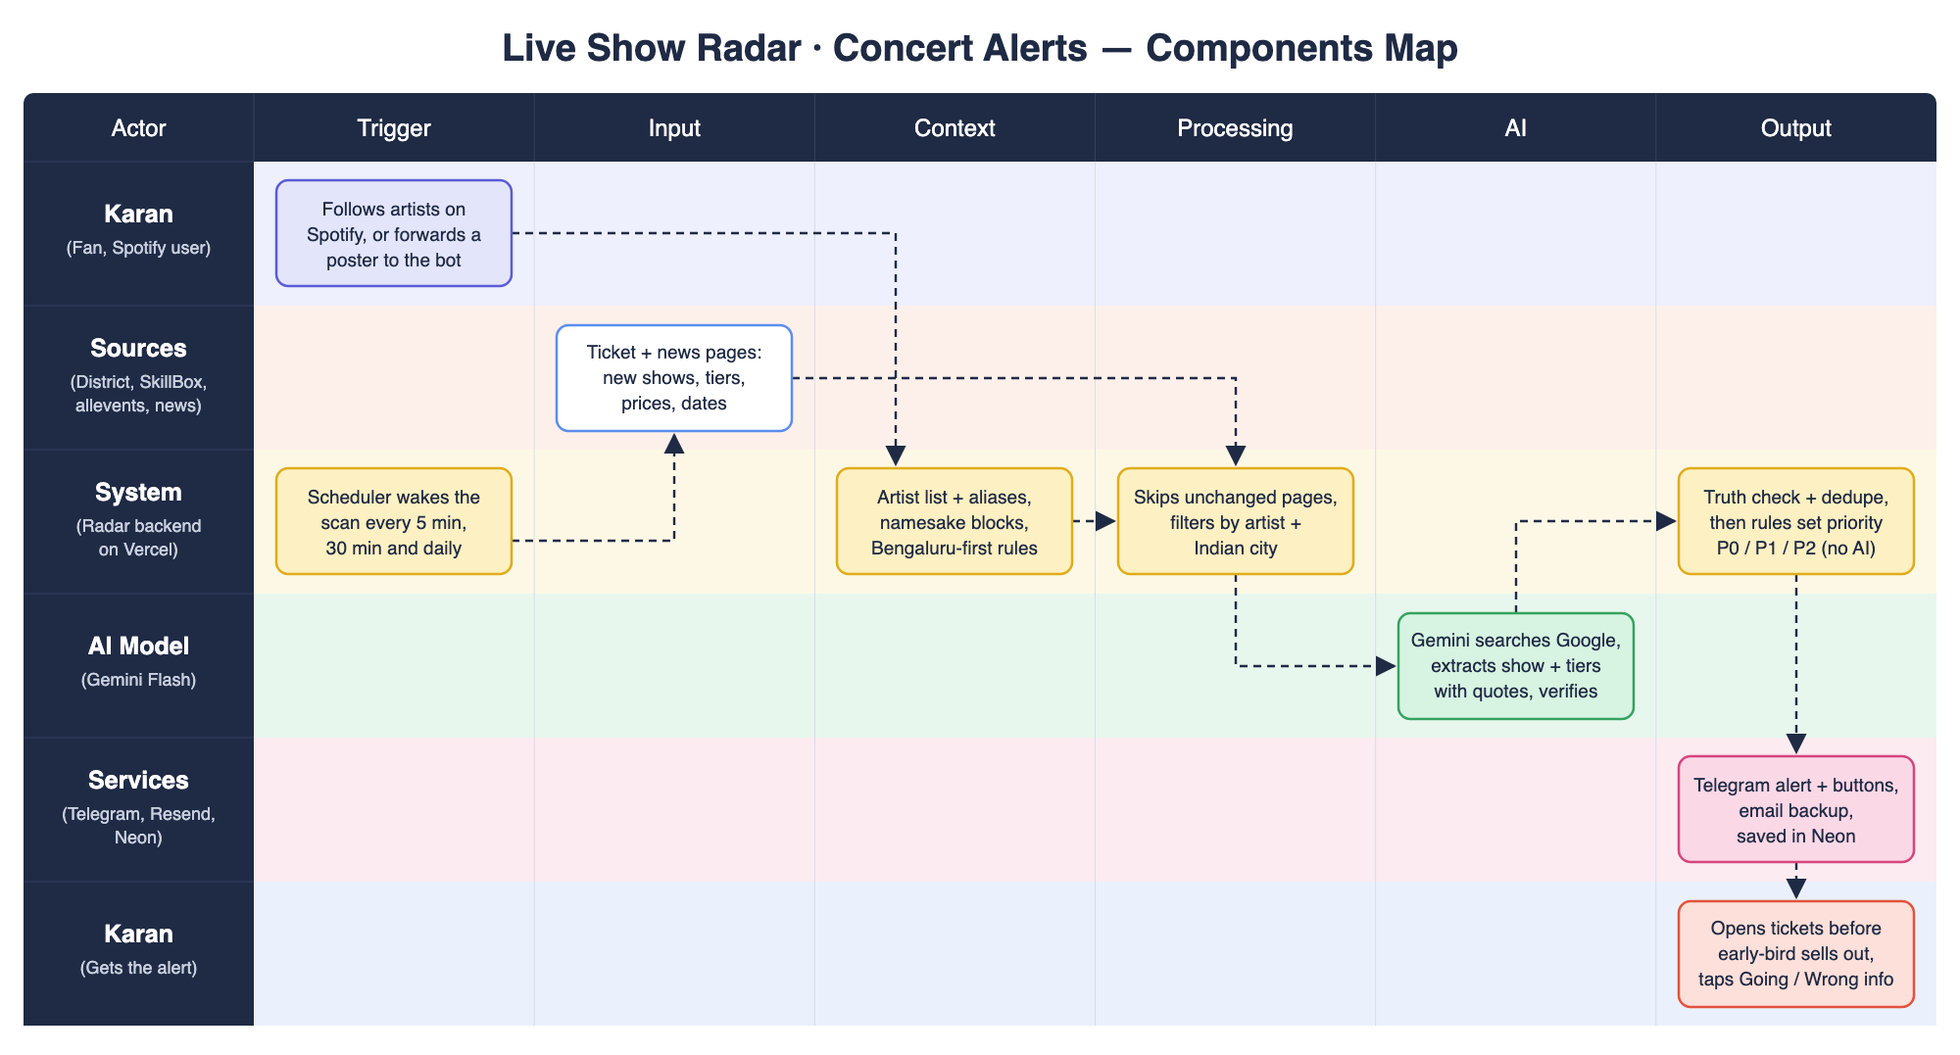
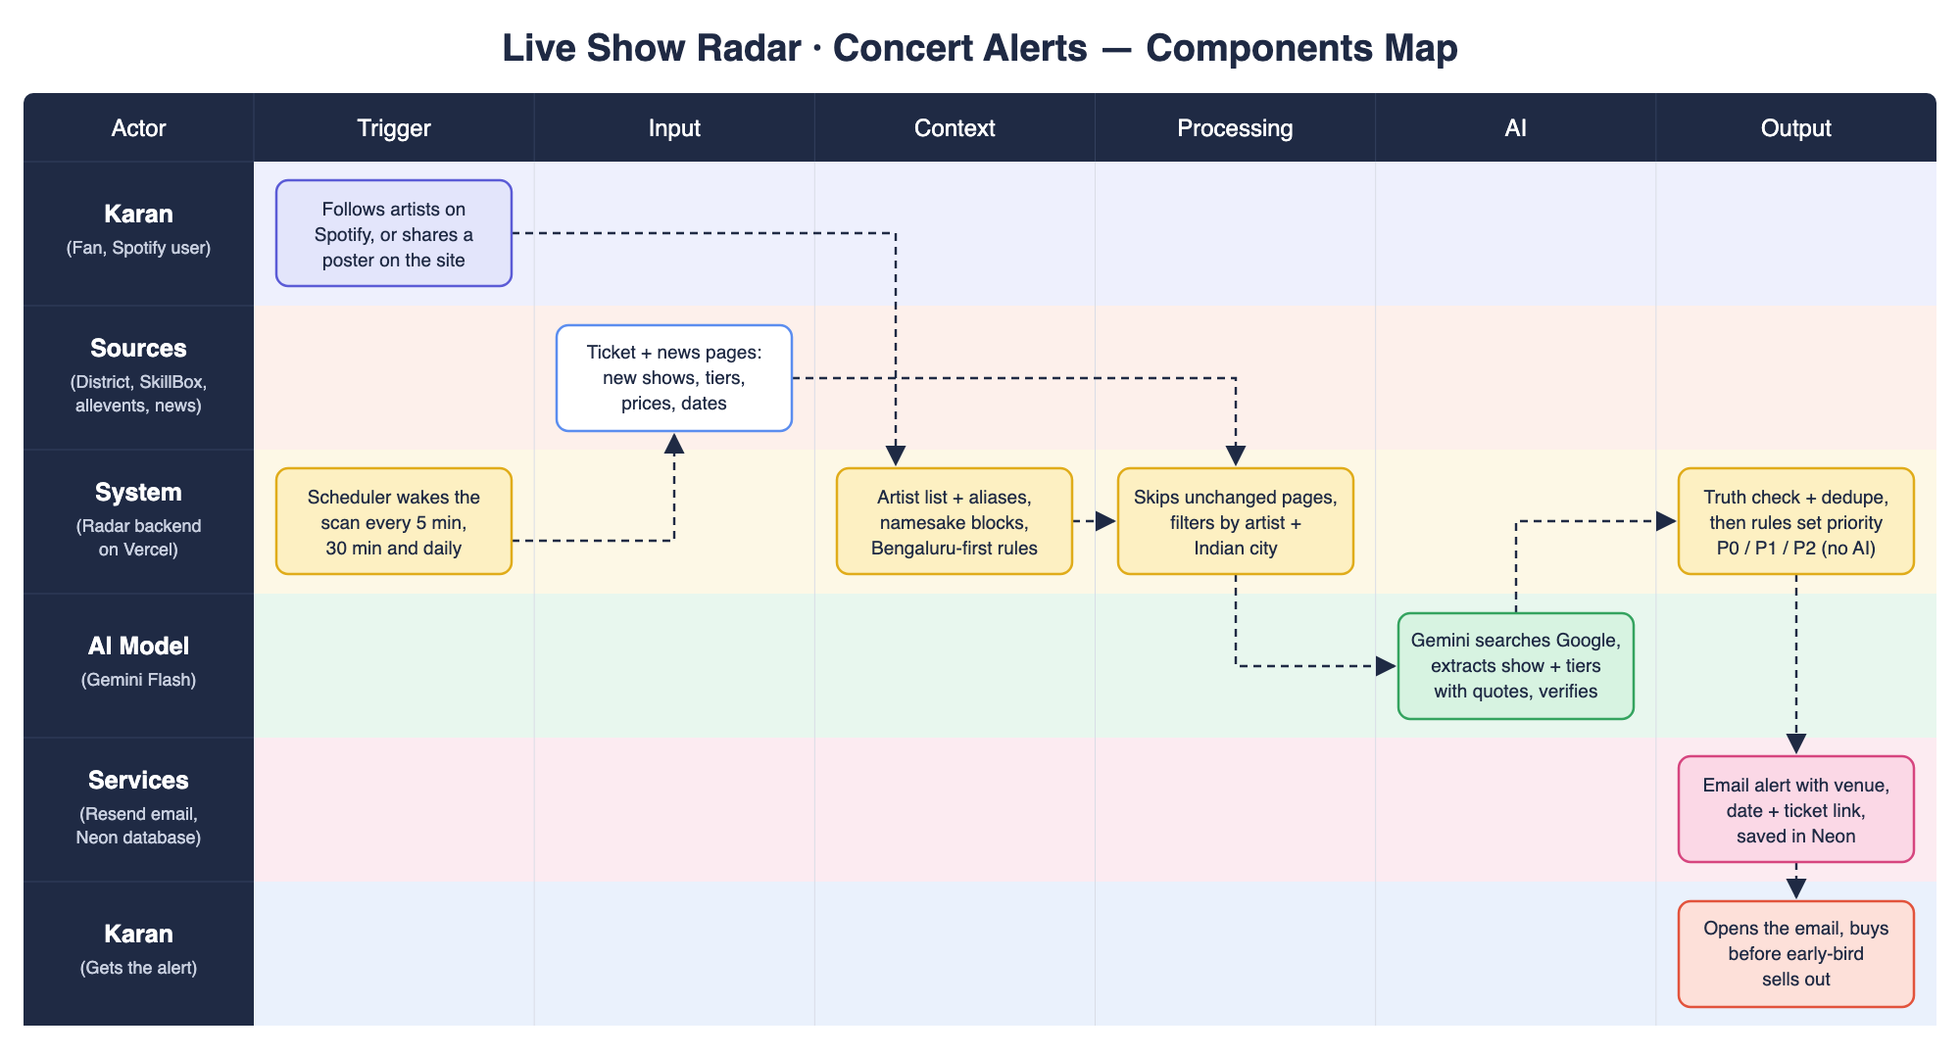
Remove Telegram entirely: email (Resend) is the alert channel; Share-to-Radar becomes a web form (link/caption/poster upload); docs + components map updated

diff --git a/app/settings/page.tsx b/app/settings/page.tsx
@@ -1,5 +1,5 @@
 import { isAdmin } from "@/lib/auth/admin";
-import { env, hasDb, hasEmail, hasGemini, hasSpotify, hasTelegram } from "@/lib/config/env";
+import { env, hasDb, hasEmail, hasGemini, hasSpotify } from "@/lib/config/env";
 import { getRepo } from "@/lib/db";
 
 export const dynamic = "force-dynamic";
@@ -35,7 +35,7 @@ export default async function SettingsPage({ searchParams }: { searchParams: Pro
           <form action="/api/admin/logout" method="post"><button className="btn">Log out</button></form>
         </div>
         <div className="flex flex-wrap gap-2 mt-3">
-          <Flag ok={hasDb()} label="Neon DB" /><Flag ok={hasGemini()} label={`AI (${e.GEMINI_MODEL})`} /><Flag ok={hasTelegram()} label="Telegram" />
+          <Flag ok={hasDb()} label="Neon DB" /><Flag ok={hasGemini()} label={`AI (${e.GEMINI_MODEL})`} />
           <Flag ok={hasEmail()} label="Email (Resend)" /><Flag ok={hasSpotify()} label="Spotify app" /><Flag ok={!!tokens} label="Spotify connected" />
         </div>
       </div>
@@ -50,7 +50,6 @@ export default async function SettingsPage({ searchParams }: { searchParams: Pro
             <button className="btn">Simulate announcement [DEMO]</button>
           </form>
           <form action="/api/admin/seed" method="post"><button className="btn">Re-seed artists + demo</button></form>
-          <form action="/api/admin/telegram" method="post"><button className="btn">Connect Telegram webhook + test</button></form>
           <a className="btn" href="/api/spotify/login">Connect Spotify (owner)</a>
         </div>
         <p className="text-xs muted">Simulate injects a clearly-labelled demo event (Bengaluru, early-bird open) and runs the real pipeline end to end; the message is labelled [DEMO].</p>
@@ -59,8 +58,7 @@ export default async function SettingsPage({ searchParams }: { searchParams: Pro
       <div className="panel p-5">
         <h2 className="mono !text-[11px] tracking-[.14em] uppercase mb-3">Alerts & rules</h2>
         <form action="/api/admin/settings" method="post" className="grid sm:grid-cols-2 gap-3 text-sm">
-          <label className="flex gap-2 items-center"><input type="checkbox" name="ch_telegram" defaultChecked={s.channels.telegram} /> Telegram (primary)</label>
-          <label className="flex gap-2 items-center"><input type="checkbox" name="ch_email" defaultChecked={s.channels.email} /> Email (secondary / fallback)</label>
+          <label className="flex gap-2 items-center"><input type="checkbox" name="ch_email" defaultChecked={s.channels.email} /> Email alerts (Resend)</label>
           <label className="flex gap-2 items-center"><input type="checkbox" name="quiet_enabled" defaultChecked={s.quiet_hours.enabled} /> Quiet hours for P2 (P0/P1 always send)</label>
           <div className="flex gap-2 items-center">from <input name="quiet_start" defaultValue={s.quiet_hours.start} className="w-20" /> to <input name="quiet_end" defaultValue={s.quiet_hours.end} className="w-20" /> IST</div>
           <label className="flex gap-2 items-center"><input type="checkbox" name="whispers" defaultChecked={s.whispers_enabled} /> Whispers feed (opt-in signals)</label>
@@ -68,6 +66,15 @@ export default async function SettingsPage({ searchParams }: { searchParams: Pro
           <div className="muted">Home city: <b>{e.HOME_CITY}</b> (env HOME_CITY). Priority: P0 = home city AND (early-bird open/imminent OR must-see); P1 = other-city early-bird or any home-city show; P2 = rest.</div>
           <div className="muted">Confidence threshold (feedback-tuned): {s.confirm_threshold}</div>
           <div><button className="btn btn-primary">Save</button></div>
+        </form>
+      </div>
+
+      <div className="panel p-5">
+        <h2 className="mono !text-[11px] tracking-[.14em] uppercase mb-2">Share to Radar</h2>
+        <p className="text-sm muted mb-3">Saw a show on Instagram or a ticket site? Paste the link or the caption, or upload a screenshot of the poster. Gemini reads it, matches it to your artists, and you get an instant email alert. Instagram links are never scraped, so upload a screenshot instead.</p>
+        <form action="/api/admin/share" method="post" encType="multipart/form-data" className="space-y-2">
+          <textarea name="text" rows={3} className="w-full" placeholder="Ticket link (district.in, skillboxes.com…) or announcement text" />
+          <div className="flex flex-wrap gap-3 items-center text-sm"><input type="file" name="poster" accept="image/*" /> <button className="btn btn-primary">Add to radar</button></div>
         </form>
       </div>
 
@@ -83,7 +90,6 @@ export default async function SettingsPage({ searchParams }: { searchParams: Pro
       <div className="panel p-5 text-sm space-y-1">
         <h2 className="mono !text-[11px] tracking-[.14em] uppercase mb-2">Integration URLs</h2>
         <div>Spotify redirect URI: <code>{base}/api/spotify/callback</code></div>
-        <div>Telegram webhook: <code>{base}/api/telegram/webhook</code> (secret header required; use the button above)</div>
         <div>Fast lane: <code>POST {base}/api/cron/scan?lane=fast</code> · Deep lane: <code>POST {base}/api/cron/scan?lane=deep</code> (Bearer CRON_SECRET)</div>
         <div>Daily (Vercel Cron): <code>{base}/api/cron/daily</code> · Health: <code>{base}/api/health</code></div>
       </div>

diff --git a/lib/share.ts b/lib/share.ts
@@ -1,0 +1,53 @@
+import type { Repo } from "@/lib/db/repo";
+import type { ObservationInput } from "@/lib/domain/schemas";
+import { isPrimaryUrl } from "@/lib/domain/rules";
+import { makeEngine } from "@/lib/scheduler/lanes";
+import { obs } from "@/lib/sources/adapters/common";
+import { PoliteHttp } from "@/lib/sources/http";
+import { extractJsonLd, isEvent, jsonLdImage, jsonLdToCandidate } from "@/lib/sources/parse/jsonld";
+import { htmlToText, sha256 } from "@/lib/text/normalize";
+
+const LOGIN_WALLED = /instagram\.com|facebook\.com|fb\.watch|threads\.net|x\.com|twitter\.com/i;
+
+export interface ShareResult { ok: boolean; message: string; eventIds: string[] }
+
+/**
+ * Share-to-Radar: Karan pastes a ticket link, an announcement caption, or uploads a poster screenshot.
+ * It runs through the same pipeline (Gemini vision/extraction → truth gate → merge → instant alert).
+ * Instagram/X links are never fetched (login-walled): upload a screenshot instead.
+ */
+export async function shareToRadar(repo: Repo, input: { text: string; image?: { mimeType: string; base64: string } | null }): Promise<ShareResult> {
+  const engine = await makeEngine(repo);
+  const now = new Date();
+  const text = input.text.trim();
+  const url = /(https?:\/\/\S+)/.exec(text)?.[1] ?? null;
+  let o: ObservationInput | null = null;
+
+  if (input.image) {
+    const h = sha256(input.image.base64);
+    o = { ...obs({ source_id: "share", url: url ?? `share:poster:${h.slice(0, 16)}`, text: text || "(poster image)", title: "Shared poster", is_primary: false, now, hashExtra: h }), image: input.image };
+  } else if (url && LOGIN_WALLED.test(url)) {
+    const rest = text.replace(url, "").trim();
+    if (rest.length < 20) return { ok: false, message: "Instagram/X pages are login-walled and never fetched. Upload a screenshot of the post or paste its caption.", eventIds: [] };
+    o = obs({ source_id: "share", url, text: rest, title: rest.split("\n")[0], is_primary: false, now });
+  } else if (url) {
+    try {
+      const page = await new PoliteHttp(repo).get(url, { minIntervalMs: 0 });
+      const ev = extractJsonLd(page.body).find(isEvent);
+      const cand = ev ? jsonLdToCandidate(ev, url, now) : null;
+      const body = cand ? JSON.stringify(ev) : htmlToText(page.body).slice(0, 12000);
+      o = { ...obs({ source_id: "share", url, text: `${text}\n${body}`, title: cand?.title ?? text.slice(0, 120), candidate: cand, is_primary: isPrimaryUrl(url), now }), image_url: ev ? jsonLdImage(ev) : null };
+    } catch (e) {
+      return { ok: false, message: `Couldn't fetch that link politely (${(e as Error).message.slice(0, 120)}). Paste the text or upload a screenshot instead.`, eventIds: [] };
+    }
+  } else if (text.length > 15) {
+    o = obs({ source_id: "share", url: `share:text:${sha256(text).slice(0, 16)}`, text, title: text.split("\n")[0], is_primary: false, now });
+  } else {
+    return { ok: false, message: "Paste an event link or announcement text, or upload a poster.", eventIds: [] };
+  }
+
+  const r = await engine.ingest(o);
+  if (r.status === "merged") return { ok: true, message: `Added to the radar (${r.events.filter((e) => e.isNew).length} new, ${r.events.filter((e) => !e.isNew).length} updated).`, eventIds: r.events.map((e) => e.id) };
+  if (r.status === "unchanged") return { ok: true, message: "Already on the radar: nothing new in that share.", eventIds: [] };
+  return { ok: false, message: `Not added: ${r.reason ?? r.status}. Only India shows by artists you follow are tracked; tribute/cover nights are ignored.`, eventIds: [] };
+}

diff --git a/lib/notify/notifiers.ts b/lib/notify/notifiers.ts
@@ -1,4 +1,4 @@
-import { env, hasEmail, hasTelegram } from "@/lib/config/env";
+import { env, hasEmail } from "@/lib/config/env";
 import type { RenderedAlert } from "@/lib/alerts/render";
 
 export interface SendResult { ok: boolean; external_id?: string; error?: string }
@@ -11,7 +11,7 @@ export interface OutgoingMessage {
 }
 
 export interface Notifier {
-  channel: "telegram" | "email" | "mock";
+  channel: "email" | "mock";
   available(): boolean;
   send(m: OutgoingMessage): Promise<SendResult>;
 }
@@ -24,59 +24,6 @@ export class MockNotifier implements Notifier {
   async send(m: OutgoingMessage) {
     this.sent.push(m);
     return { ok: true, external_id: `mock-${this.sent.length}` };
-  }
-}
-
-export function telegramKeyboard(m: OutgoingMessage) {
-  const id = m.alertId;
-  const rows: { text: string; url?: string; callback_data?: string }[][] = [];
-  const top: { text: string; url?: string; callback_data?: string }[] = [];
-  if (m.rendered.ticketUrl) top.push({ text: "🎟 Open tickets", url: m.rendered.ticketUrl });
-  top.push({ text: "Details", url: m.rendered.eventUrl });
-  rows.push(top);
-  rows.push([
-    { text: "✅ Going", callback_data: `fb:going:${id}` },
-    { text: "🤔 Maybe", callback_data: `fb:maybe:${id}` },
-    { text: "🙅 Not interested", callback_data: `fb:not_interested:${id}` },
-  ]);
-  rows.push([
-    { text: "❌ Wrong info", callback_data: `fb:wrong_info:${id}` },
-    { text: "👤 Wrong artist", callback_data: `fb:wrong_artist:${id}` },
-  ]);
-  const cal: { text: string; url?: string; callback_data?: string }[] = [];
-  if (m.icsUrl) cal.push({ text: "📅 Add to calendar", url: m.icsUrl });
-  cal.push({ text: "⏰ Remind me before sale", callback_data: `rm:${id}` });
-  rows.push(cal);
-  return { inline_keyboard: rows };
-}
-
-export async function telegramApi(method: string, body: Record<string, unknown>): Promise<{ ok: boolean; result?: unknown; description?: string }> {
-  const res = await fetch(`https://api.telegram.org/bot${env().TELEGRAM_BOT_TOKEN}/${method}`, {
-    method: "POST",
-    headers: { "content-type": "application/json" },
-    body: JSON.stringify(body),
-    signal: AbortSignal.timeout(15_000),
-  });
-  return (await res.json()) as { ok: boolean; result?: unknown; description?: string };
-}
-
-export class TelegramNotifier implements Notifier {
-  channel = "telegram" as const;
-  available() { return hasTelegram(); }
-  async send(m: OutgoingMessage) {
-    try {
-      const r = await telegramApi("sendMessage", {
-        chat_id: env().TELEGRAM_CHAT_ID,
-        text: m.rendered.html.slice(0, 4000),
-        parse_mode: "HTML",
-        link_preview_options: { is_disabled: true },
-        ...(m.buttons ? { reply_markup: telegramKeyboard(m) } : {}),
-      });
-      if (!r.ok) return { ok: false, error: r.description ?? "telegram error" };
-      return { ok: true, external_id: String((r.result as { message_id?: number })?.message_id ?? "") };
-    } catch (e) {
-      return { ok: false, error: (e as Error).message };
-    }
   }
 }
 

diff --git a/lib/sources/registry.ts b/lib/sources/registry.ts
@@ -8,7 +8,7 @@ export const STATIC_SOURCES: SourceRow[] = [
   { id: "bing-news", name: "Bing News RSS", kind: "news", is_primary: false, enabled: true, config: { lane: "fast" } },
   { id: "google-news", name: "Google News RSS (off: robots.txt)", kind: "news", is_primary: false, enabled: false, config: { lane: "fast" } },
   { id: "gemini-scout", name: "Gemini Flash + Google Search grounding", kind: "search", is_primary: false, enabled: true, config: { lane: "deep" } },
-  { id: "telegram-share", name: "Share-to-Radar (Telegram)", kind: "share", is_primary: false, enabled: true, config: { lane: "push" } },
+  { id: "share", name: "Share-to-Radar (link / caption / poster upload)", kind: "share", is_primary: false, enabled: true, config: { lane: "push" } },
   { id: "bookmyshow", name: "BookMyShow (blocked by Cloudflare: search-discovered only)", kind: "ticketing", is_primary: true, enabled: false, config: { status: "blocked" } },
   { id: "ticketgenie", name: "Ticketgenie (API 403: search-discovered only)", kind: "ticketing", is_primary: true, enabled: false, config: { status: "blocked" } },
   { id: "bandsintown", name: "Bandsintown (needs written consent + app_id)", kind: "api", is_primary: false, enabled: false, config: { env: "BANDSINTOWN_APP_ID" } },

diff --git a/app/api/admin/share/route.ts b/app/api/admin/share/route.ts
@@ -1,0 +1,21 @@
+import { NextResponse } from "next/server";
+import { isAdmin } from "@/lib/auth/admin";
+import { getRepo } from "@/lib/db";
+import { shareToRadar } from "@/lib/share";
+
+export const maxDuration = 60;
+
+/** Share-to-Radar web form: link / caption text / poster upload → real pipeline → instant alert. */
+export async function POST(req: Request) {
+  if (!(await isAdmin())) return NextResponse.json({ error: "unauthorized" }, { status: 401 });
+  const f = await req.formData();
+  const file = f.get("poster");
+  let image: { mimeType: string; base64: string } | null = null;
+  if (file && typeof file !== "string" && file.size > 0) {
+    if (file.size > 4_000_000) return NextResponse.redirect(new URL(`/settings?msg=${encodeURIComponent("Poster too large (max 4 MB)")}`, req.url), 303);
+    image = { mimeType: file.type || "image/jpeg", base64: Buffer.from(await file.arrayBuffer()).toString("base64") };
+  }
+  const r = await shareToRadar(getRepo(), { text: String(f.get("text") ?? ""), image });
+  const dest = r.eventIds[0] ? `/event/${r.eventIds[0]}` : `/settings?msg=${encodeURIComponent(r.message)}`;
+  return NextResponse.redirect(new URL(dest, req.url), 303);
+}

diff --git a/lib/domain/types.ts b/lib/domain/types.ts
@@ -174,7 +174,7 @@ export interface Alert {
 export interface Delivery {
   id: string;
   alert_id: string | null;
-  channel: "telegram" | "email" | "inapp" | "mock";
+  channel: "email" | "inapp" | "mock";
   status: "sent" | "failed" | "skipped" | "mock";
   attempt: number;
   error: string | null;
@@ -253,7 +253,7 @@ export interface GeminiUsage {
 export interface Settings {
   home_city: string;
   quiet_hours: { enabled: boolean; start: string; end: string }; // "23:00" → "07:30" IST
-  channels: { telegram: boolean; email: boolean };
+  channels: { email: boolean };
   whispers_enabled: boolean;
   whisper_min_confidence: number;
   confirm_threshold: number; // feedback-tuned: min verifier score to accept a field
@@ -263,7 +263,7 @@ export interface Settings {
 export const DEFAULT_SETTINGS: Settings = {
   home_city: "Bengaluru",
   quiet_hours: { enabled: true, start: "23:00", end: "07:30" },
-  channels: { telegram: true, email: true },
+  channels: { email: true },
   whispers_enabled: true,
   whisper_min_confidence: 0.8,
   confirm_threshold: 0.7,

diff --git a/lib/config/env.ts b/lib/config/env.ts
@@ -20,9 +20,6 @@ const EnvZ = z.object({
   SPOTIFY_CLIENT_ID: z.string().optional(),
   SPOTIFY_CLIENT_SECRET: z.string().optional(),
   SPOTIFY_REDIRECT_URI: z.string().optional(),
-  TELEGRAM_BOT_TOKEN: z.string().optional(),
-  TELEGRAM_CHAT_ID: z.string().optional(),
-  TELEGRAM_WEBHOOK_SECRET: z.string().optional(),
   RESEND_API_KEY: z.string().optional(),
   FROM_EMAIL: z.string().optional(),
   ALERT_EMAIL: z.string().optional(),
@@ -53,6 +50,5 @@ export function resetEnv() {
 export const isMock = () => env().MOCK_MODE;
 export const hasDb = () => !isMock() && !!env().DATABASE_URL && !env().DATABASE_URL!.includes("[SENSITIVE]");
 export const hasGemini = () => !isMock() && (!!env().OPENROUTER_API_KEY || !!env().GEMINI_API_KEY);
-export const hasTelegram = () => !isMock() && !!env().TELEGRAM_BOT_TOKEN && !!env().TELEGRAM_CHAT_ID;
 export const hasEmail = () => !isMock() && !!env().RESEND_API_KEY && !!env().FROM_EMAIL && !!env().ALERT_EMAIL;
 export const hasSpotify = () => !!env().SPOTIFY_CLIENT_ID && !!env().SPOTIFY_REDIRECT_URI;

diff --git a/lib/scheduler/lanes.ts b/lib/scheduler/lanes.ts
@@ -4,7 +4,7 @@ import { Gemini } from "@/lib/ai/gemini";
 import type { Repo } from "@/lib/db/repo";
 import type { SourceHealth } from "@/lib/domain/types";
 import type { Channels } from "@/lib/notify/dispatch";
-import { EmailNotifier, MockNotifier, TelegramNotifier } from "@/lib/notify/notifiers";
+import { EmailNotifier, MockNotifier } from "@/lib/notify/notifiers";
 import { Engine } from "@/lib/pipeline/engine";
 import { BlockedError, PoliteHttp, type Http } from "@/lib/sources/http";
 import { alleventsAdapter } from "@/lib/sources/adapters/allevents";
@@ -26,7 +26,7 @@ export interface LaneResult {
 }
 
 export function defaultChannels(): Channels {
-  return { primary: [new TelegramNotifier(), new EmailNotifier()], mock: new MockNotifier() };
+  return { primary: [new EmailNotifier()], mock: new MockNotifier() };
 }
 
 export async function makeEngine(repo: Repo, opts: { channels?: Channels; gemini?: Gemini; log?: (m: string) => void; now?: () => Date } = {}) {

diff --git a/app/page.tsx b/app/page.tsx
@@ -68,7 +68,7 @@ export default async function RadarPage() {
         <div className="p-8 sm:p-12 relative z-10">
           <div className="text-[11px] font-semibold tracking-[.18em] uppercase text-[#f0abfc] mb-3">Always on the radar</div>
           <h2 className="text-4xl sm:text-5xl font-extrabold leading-[1]">Get tickets <span className="grad-text">first.</span></h2>
-          <p className="text-white/75 mt-4 max-w-md">One Telegram ping the minute a show or early-bird drops, with the venue, the IST time and the ticket link. Every fact is quoted from its source.</p>
+          <p className="text-white/75 mt-4 max-w-md">One email the minute a show or early-bird drops, with the venue, the IST time and the ticket link. Every fact is quoted from its source.</p>
           <div className="flex flex-wrap gap-3 mt-7">
             <Link href="/alerts" className="btn btn-primary">See past alerts</Link>
             <Link href="/health" className="btn">What we checked</Link>

diff --git a/app/api/health/route.ts b/app/api/health/route.ts
@@ -1,6 +1,6 @@
 import { NextResponse } from "next/server";
 import { getRepo } from "@/lib/db";
-import { hasGemini, hasTelegram, hasEmail, hasDb, env } from "@/lib/config/env";
+import { hasGemini, hasEmail, hasDb, env } from "@/lib/config/env";
 
 export const dynamic = "force-dynamic";
 
@@ -12,7 +12,7 @@ export async function GET() {
     return NextResponse.json({
       ok: true,
       db: repo.kind,
-      configured: { db: hasDb(), ai: hasGemini(), telegram: hasTelegram(), email: hasEmail(), model: env().GEMINI_MODEL },
+      configured: { db: hasDb(), ai: hasGemini(), email: hasEmail(), model: env().GEMINI_MODEL },
       heartbeat: hb,
       last_run: runs[0] ? { lane: runs[0].lane, status: runs[0].status, started_at: runs[0].started_at } : null,
       real_events: events.length,

diff --git a/app/event/[id]/page.tsx b/app/event/[id]/page.tsx
@@ -157,7 +157,7 @@ export default async function EventPage({ params }: { params: Promise<{ id: stri
                   <button key={k} name="kind" value={k} className="btn !py-1.5 !px-3 !text-[12.5px]">{k.replace("_", " ")}</button>
                 ))}
               </form>
-            ) : <p className="text-sm muted">Owner feedback via Telegram buttons, or <Link className="underline" href="/settings">sign in</Link>.</p>}
+            ) : <p className="text-sm muted">Owner feedback after <Link className="underline" href="/settings">signing in</Link>.</p>}
             {feedback.length > 0 && <p className="text-xs muted mt-3">Recorded: {feedback.map((f) => f.kind.replace("_", " ")).join(", ")}</p>}
           </section>
 

diff --git a/lib/alerts/render.ts b/lib/alerts/render.ts
@@ -4,7 +4,7 @@ import { isHomeCity } from "@/lib/text/cities";
 import { formatIst, formatIstDate, humanizeDuration } from "@/lib/text/dates-ist";
 
 /**
- * Deterministic alert rendering. Telegram and email use the same fields.
+ * Deterministic alert rendering for the email alert and the in-app log.
  * Every ticket fact shown is confirmed (quoted), labelled inferred, or explicitly "not stated".
  */
 
@@ -75,7 +75,7 @@ export interface RenderInput {
 export interface RenderedAlert {
   title: string;
   lines: string[];
-  html: string; // Telegram HTML subset
+  html: string; // simple HTML (in-app / logs)
   text: string; // plain text (email text part, logs)
   ticketUrl: string | null;
   eventUrl: string;
